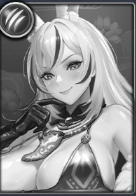
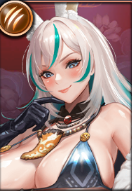
更新周瑜及部分彩色index

diff --git a/逆王（放置）传说攻略.md b/逆王（放置）传说攻略.md
@@ -227,6 +227,10 @@
 	![樱咲](files/图鉴/樱咲/index.png)  
 	PVP主要靠技能四蓬莱普攻挂燃烧，配合凛，鬼三，每人带一套满级红万象套装跟时间女神反正对方，追击完必秒人，但是造价过高，而且对面也带时间女神放逐就废了，pve就叠叠大招的十回合燃烧
 
+17. 周瑜：  
+	![周瑜](files/图鉴/周瑜/index.png)  
+	待完善
+
 ## 西方联合
 
 1. 凯瑟琳：  
